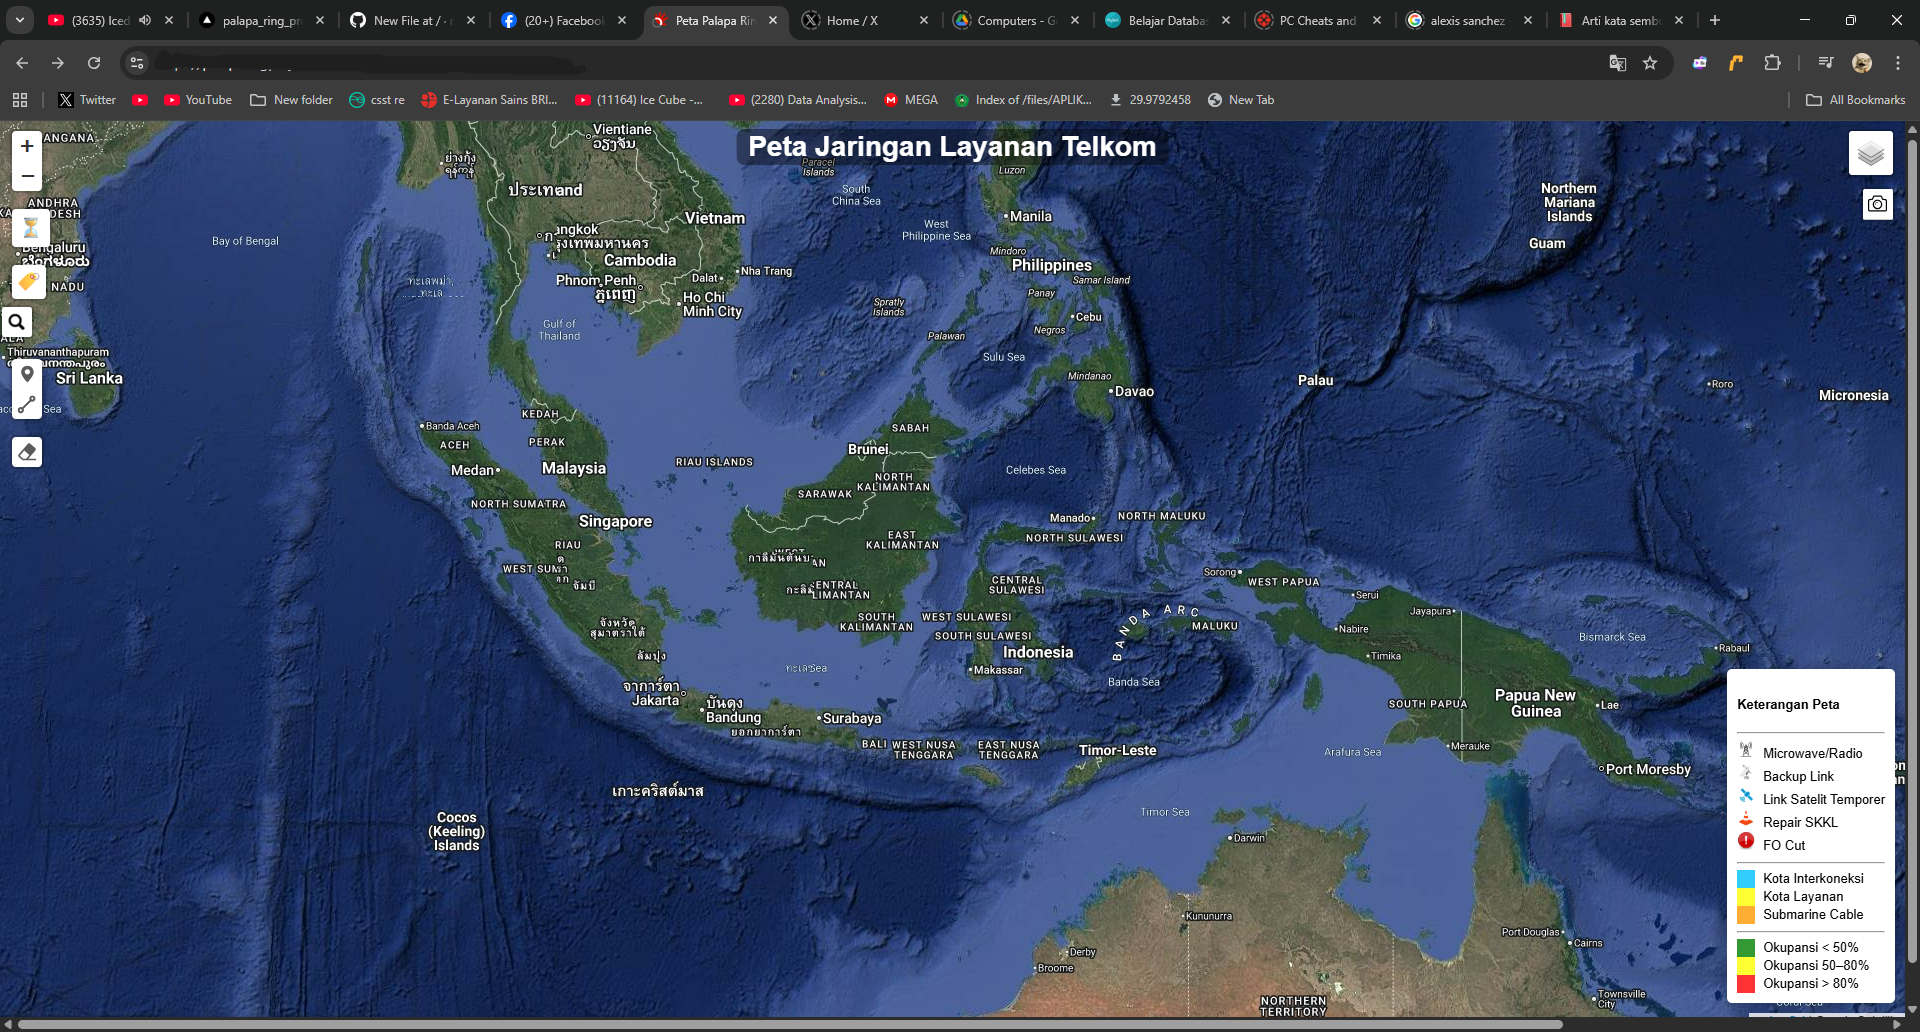
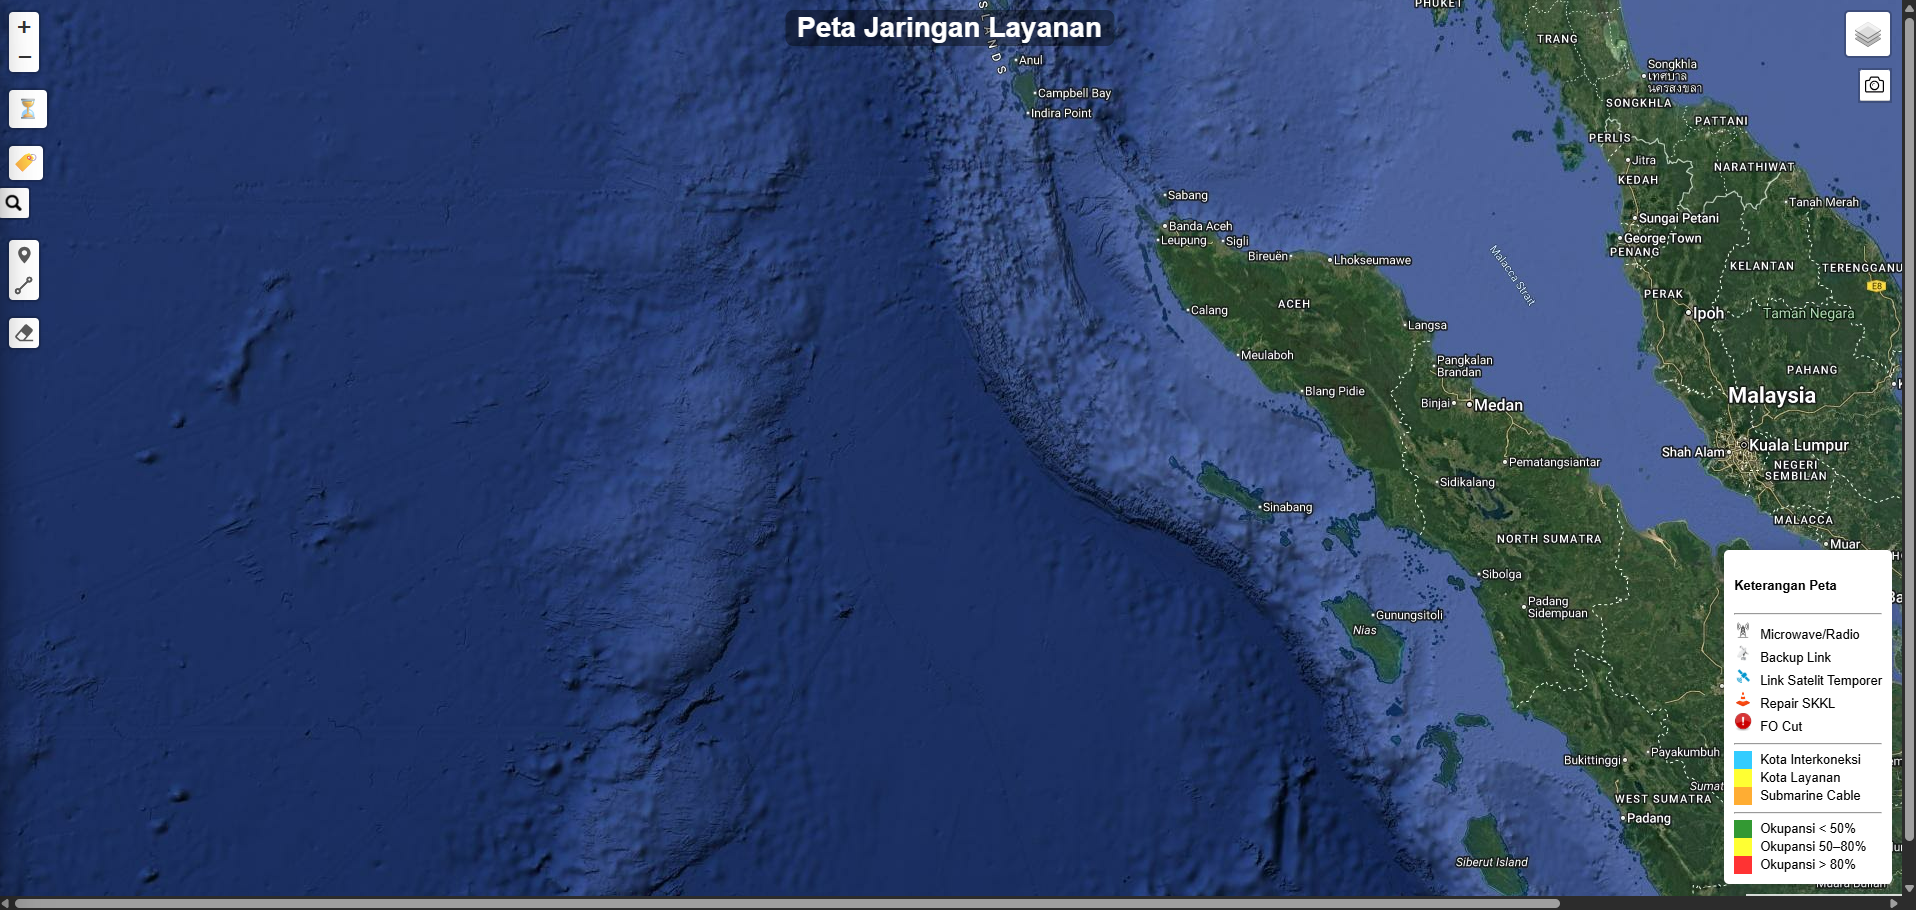
revisi readme

diff --git a/README.md b/README.md
@@ -1,16 +1,8 @@
-<<<<<<< HEAD
 # Peta Jaringan
 
 Dashboard peta interaktif untuk memantau kondisi layanan
 
 > Terakhir diperbarui: 2026-01-09 (WIB)
-=======
-# Peta Jaringan 
-
-Dashboard peta interaktif untuk memantau kondisi layanan 
-
->  Terakhir diperbarui: 2026-01-09 (WIB)
->>>>>>> a4e524a6b47e679db202b4e71b1a777f70ec2a1e
 
 ---
 
@@ -30,17 +22,10 @@ Dashboard peta interaktif untuk memantau kondisi layanan
   7. @supabase/supabase-js v2 -- ext untuk upload document ke Supabase
 
 ## Dataset dan Storage
-<<<<<<< HEAD
-=======
-  
-  1. Dataset disimpan di Supabase (SQL Cloud database). 
-  2. Kolom "geom" pada dataset memiliki tipe kolom *geometry*, sehingga perlu menginstall extension *postgis* kolom geom dapat digunakan sebagai titik koordinat. Berikut link untuk mengunduh postgis "https://postgis.net/". Pastikan extension postgis terinstall via SQL query dengan syntax: 
->>>>>>> a4e524a6b47e679db202b4e71b1a777f70ec2a1e
 
 1.  Dataset disimpan di Supabase (SQL Cloud database).
 2.  Kolom "geom" pada dataset memiliki tipe kolom _geometry_, sehingga perlu menginstall extension _postgis_ kolom geom dapat digunakan sebagai titik koordinat. Berikut link untuk mengunduh postgis "https://postgis.net/". Pastikan extension postgis terinstall via SQL query dengan syntax:
 
-<<<<<<< HEAD
           - CREATE EXTENSION postgis;
 
     notes: Install extension postgis diperlukan di awal saja jika akan mengedit di database yang baru baik lokal maupun cloud. Jika tidak menginstall postgis maka kolom geom tidak akan ada pilihan tipe data "geometry" dan dataset tidak bisa digunakan
@@ -58,21 +43,6 @@ Dashboard peta interaktif untuk memantau kondisi layanan
 
 # PostgreSQL (via Transaction pooler)
 
-=======
-    
-  3. Dataset yang digunakan terdiri dari beberaa tabel, diantaranya:
-        1. Palapa_Ring_Barat_Point (Titik project Paring Barat)
-        2. Palapa_Ring_Barat_Alur (Alur antar project Paring Barat)
-        3. Palapa_Ring_Tengah_Point (Titik project Paring Tengah)
-        4. Palapa_Ring_Tengah_Alur (Alur antar project Paring Tengah)
-        5. Palapa_Ring_Timur_Point (Titik project Paring Timur)
-        6. Palapa_Ring_Timur_Alur (Alur antar project Paring Timur)
-  4. Syntax disimpan di Github "https://github.com/raihanr7/my-flask-app"
-
-
-##  Konfigurasi Database
-# PostgreSQL (via Transaction pooler)
->>>>>>> a4e524a6b47e679db202b4e71b1a777f70ec2a1e
 host=os.getenv('DATABASE_HOST'),
 database=os.getenv('DB_NAME'),
 user=os.getenv('DB_USER'),
@@ -87,14 +57,9 @@ options='-c timezone=Asia/Jakarta -c pool_mode=transaction'
 **Vercel**
 Peta online ini dihosting via "https://vercel.com/".
 
-<<<<<<< HEAD
-=======
-
->>>>>>> a4e524a6b47e679db202b4e71b1a777f70ec2a1e
 ## Cara Pemakaian Peta
 
 **Main Page**
-<<<<<<< HEAD
 
 1. Buka halaman utama → pilih layer di bagian ujung kanan atas.
    ![Main screen](static/imgdocs/mainscreen.png)
@@ -104,16 +69,6 @@ Peta online ini dihosting via "https://vercel.com/".
    - Palapa Ring Timur (Layanan FO yang Telkom sewa ke BAKTI)
 
      <img src="static/imgdocs/paring.png" alt="Paring" width="700" height="400">
-=======
-1. Buka halaman utama → pilih layer di bagian ujung kanan atas.
-![Main screen](static/imgdocs/mainscreen.png)
-2. Pilih layer:
-    - Palapa Ring Barat (Layanan FO yang Telkom sewa ke BAKTI)
-    - Palapa Ring Tengah (Layanan FO yang Telkom sewa ke BAKTI)
-    - Palapa Ring Timur (Layanan FO yang Telkom sewa ke BAKTI)
-      
-      <img src="static/imgdocs/paring.png" alt="Paring" width="700" height="400">
->>>>>>> a4e524a6b47e679db202b4e71b1a777f70ec2a1e
 
 **Edit Value (okupansi, nilai kontrak, periode)**
 
@@ -125,14 +80,7 @@ Peta online ini dihosting via "https://vercel.com/".
 
 3. Edit value (cth. Okupansi) → Simpan. Untuk melihat history perubahan nilai okupansi klik tombol "Update History" di list tombol sebelah kiri
 
-<<<<<<< HEAD
 # Editing script
-=======
-
-
-# Editing script 
-Disarankan menjalankan dan mengedit script secara lokal untuk mengedit fitur peta dll. Kemudian dapat dipush ke github jika sudah selesai 
->>>>>>> a4e524a6b47e679db202b4e71b1a777f70ec2a1e
 
 Disarankan menjalankan dan mengedit script secara lokal untuk mengedit fitur peta dll. Kemudian dapat dipush ke github jika sudah selesai
 
@@ -200,11 +148,6 @@ Aplikasi akan tampil di: **http://127.0.0.1:5000** (alias **http://localhost:500
 - `upload.js` – integrasi Supabase Storage untuk unggah dokumen/evidence.
 - `map.css` – style peta, legend, sidebar, label, notifikasi.
 
-<<<<<<< HEAD
-=======
-
-
->>>>>>> a4e524a6b47e679db202b4e71b1a777f70ec2a1e
 ### Kontak
 
 Jika ada yang ditanyakan, silakan hubungi saya lewat Telegram: [@kazekage718](https://t.me/kazekage718)
